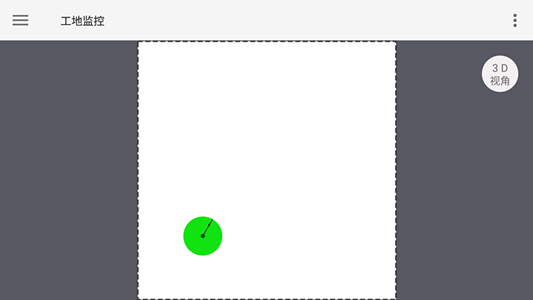
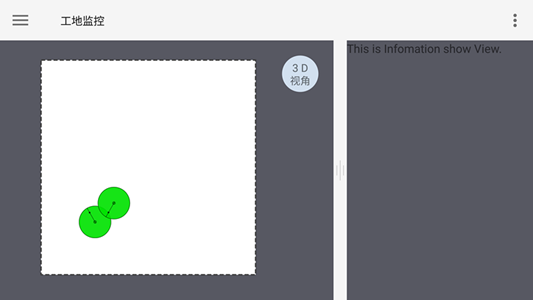
add Gesture 4 2d view

diff --git a/app/src/main/java/com/jxlc/tajiproject/ui/layout/ConstructionSiteLayout.java b/app/src/main/java/com/jxlc/tajiproject/ui/layout/ConstructionSiteLayout.java
@@ -10,9 +10,11 @@ import android.graphics.Color;
 import android.support.annotation.NonNull;
 import android.support.v4.content.ContextCompat;
 import android.util.AttributeSet;
+import android.view.GestureDetector;
 import android.view.Gravity;
 import android.view.LayoutInflater;
 import android.view.MotionEvent;
+import android.view.ScaleGestureDetector;
 import android.view.View;
 import android.view.animation.AccelerateDecelerateInterpolator;
 import android.widget.FrameLayout;
@@ -22,6 +24,8 @@ import android.widget.TextView;
 import com.jxlc.tajiproject.R;
 import com.jxlc.tajiproject.bean.EnvironmentInfo;
 import com.jxlc.tajiproject.bean.TowerCraneInfo;
+import com.jxlc.tajiproject.listener.ScrollTapGesture;
+import com.jxlc.tajiproject.listener.ScaleGesture;
 import com.jxlc.tajiproject.ui.widgets.CircularProgressDrawable;
 import com.jxlc.tajiproject.ui.widgets.TowerCrane2DView;
 import com.randal.aviana.LogUtils;
@@ -29,8 +33,6 @@ import com.unity3d.player.UnityPlayer;
 
 import java.util.ArrayList;
 import java.util.List;
-
-import static android.R.attr.mode;
 
 /**
  * Created by randal on 2017/5/4.
@@ -45,13 +47,14 @@ public class ConstructionSiteLayout extends FrameLayout {
     private CircularProgressDrawable mFloatBtnDrawable;
     private Animator mFloatBtnCurAnim;
 
+    private FrameLayout mContainer;
     private FrameLayout mSiteBorder;
-    private List<TowerCraneInfo> mTCInfoList;
-    private float scaleRate;
+    private GestureDetector mGestureDetector;
+    private ScaleGestureDetector mScaleGestureDetector;
 
+    private List<TowerCraneInfo> mTCInfoList;
+    private float scaleRateSite2Screen;
     private boolean firstLoadUnity = true;
-    int touchNum = 0;
-    float oldDist = 0.0f;
 
     public ConstructionSiteLayout(@NonNull Context context) {
         this(context, null);
@@ -72,7 +75,14 @@ public class ConstructionSiteLayout extends FrameLayout {
 
     private void initVariable() {
         mTCInfoList = new ArrayList<>();
-        mTCInfoList.add(TowerCraneInfo.getDemoInfo());
+        TowerCraneInfo info1 = TowerCraneInfo.getDemoInfo();
+        info1.setAngle(120);
+        mTCInfoList.add(info1);
+        TowerCraneInfo info2 = TowerCraneInfo.getDemoInfo();
+        info2.setCoordinateX(info2.getCoordinateX() + info2.getFrontArmLength() + 10);
+        info2.setCoordinateY(info2.getCoordinateY() + info2.getFrontArmLength() + 10);
+        info2.setAngle(240);
+        mTCInfoList.add(info2);
     }
 
     private void initViews() {
@@ -81,7 +91,7 @@ public class ConstructionSiteLayout extends FrameLayout {
                 .setRingWidth(getResources().getDimensionPixelSize(R.dimen.layout_float_button_ring_width))
                 .setOutlineColor(ContextCompat.getColor(mContext, android.R.color.transparent))
                 .setRingColor(ContextCompat.getColor(mContext, android.R.color.holo_green_light))
-                .setCenterColor(Color.parseColor("#EFFFFAFA"))
+                .setCenterColor(Color.parseColor("#E9DEEDFC"))
                 .create();
         mFloatBtn.setImageDrawable(mFloatBtnDrawable);
         mFloatBtn.setOnTouchListener(new OnTouchListener() {
@@ -110,54 +120,19 @@ public class ConstructionSiteLayout extends FrameLayout {
 
         mFloatBtnTextView = (TextView)findViewById(R.id.constructionsite_floatbtntext);
         mFloatBtnTextView.setText(getResources().getText(R.string.floatbtn_3d));
-
+        mContainer = (FrameLayout)findViewById(R.id.constructionsite_container);
         mSiteBorder = (FrameLayout)findViewById(R.id.constructionsite_border);
-        mSiteBorder.setOnTouchListener(new OnTouchListener() {
+        mContainer.setOnTouchListener(new OnTouchListener() {
             @Override
             public boolean onTouch(View view, MotionEvent event) {
-                switch (event.getAction() & MotionEvent.ACTION_MASK) {
-                    case MotionEvent.ACTION_DOWN:
-                        touchNum = 1;
-                        break;
-                    case MotionEvent.ACTION_UP:
-                        touchNum = 0;
-                        break;
-                    case MotionEvent.ACTION_POINTER_UP:
-                        touchNum = 1;
-                        break;
-                    case MotionEvent.ACTION_POINTER_DOWN:
-                        oldDist = spacing(event);
-                        touchNum += 1;
-                        break;
-
-                    case MotionEvent.ACTION_MOVE:
-                        if (mode >= 2) {
-                            float newDist = spacing(event);
-                            if (Math.abs(newDist - oldDist) > 30 && Math.abs(newDist - oldDist) < 40) {
-//                                FrameLayout.LayoutParams lp = (FrameLayout.LayoutParams)mSiteBorder.getLayoutParams();
-//                                LogUtils.d(" " + newDist + " " + oldDist + " " + lp.width + " " + lp.height);
-//                                lp.width = (int)(lp.width * scaleRate * (newDist / oldDist));
-//                                lp.height = (int)(lp.height * scaleRate * (newDist / oldDist));
-//                                mSiteBorder.setLayoutParams(lp);
-//                                oldDist = newDist;
-//                                LogUtils.d(" "+ touchNum + " " + oldDist + " " + lp.width + " " + lp.height);
-                                mSiteBorder.setScaleX(scaleRate * newDist / oldDist);
-                                mSiteBorder.setScaleY(scaleRate * newDist / oldDist);
-                                oldDist = newDist;
-
-                            }
-                        }
-                        break;
-                }
+                mGestureDetector.onTouchEvent(event);
+                mScaleGestureDetector.onTouchEvent(event);
                 return true;
             }
-
-            private float spacing(MotionEvent event) {
-                float x = event.getX(0) - event.getX(1);
-                float y = event.getY(0) - event.getY(1);
-                return (float) Math.sqrt(x * x + y * y);
-            }
         });
+
+        mGestureDetector = new GestureDetector(mContext, new ScrollTapGesture(mSiteBorder));
+        mScaleGestureDetector = new ScaleGestureDetector(mContext, new ScaleGesture(mSiteBorder));
         this.post(new Runnable() {
             @Override
             public void run() {
@@ -193,55 +168,70 @@ public class ConstructionSiteLayout extends FrameLayout {
     }
 
     private void switchView() {
-        FrameLayout container = (FrameLayout)findViewById(R.id.constructionsite_container);
-        if (container.getChildCount() == 3) {
-            FrameLayout.LayoutParams lp = new LayoutParams(container.getWidth(), container.getHeight());
-            container.addView(mUnityPlayer, lp);
+        if (mContainer.getChildCount() == 3) {
+            FrameLayout.LayoutParams lp = new LayoutParams(mContainer.getWidth(), mContainer.getHeight());
+            mContainer.addView(mUnityPlayer, lp);
             mFloatBtn.bringToFront();
             mFloatBtnTextView.bringToFront();
             if (!firstLoadUnity) {
                 mFloatBtnTextView.setText(getResources().getText(R.string.floatbtn_2d));
             }
         } else {
-            container.removeView(mUnityPlayer);
+            mContainer.removeView(mUnityPlayer);
             mFloatBtnTextView.setText(getResources().getText(R.string.floatbtn_3d));
         }
     }
 
     private void resizeSiteAndTowerCrane() {
-        FrameLayout container = (FrameLayout)findViewById(R.id.constructionsite_container);
-        int cWidth = container.getWidth();
-        int cHeight = container.getHeight();
+        int cWidth = mContainer.getWidth();
+        int cHeight = mContainer.getHeight();
         LogUtils.d("" + cWidth + " " + cHeight);
 
         float wRate = (float)cWidth / (float)EnvironmentInfo.getInstance().getConstructionSiteWidth();
         float hRate = (float)cHeight / (float)EnvironmentInfo.getInstance().getConstructionSiteHeight();
         LogUtils.d("" + wRate + " " + hRate);
-        scaleRate = (wRate < hRate) ? wRate : hRate;
+        scaleRateSite2Screen = (wRate < hRate) ? wRate : hRate;
 
-        FrameLayout.LayoutParams lp = new LayoutParams((int)(EnvironmentInfo.getInstance().getConstructionSiteWidth() * scaleRate),
-                (int)(EnvironmentInfo.getInstance().getConstructionSiteHeight() * scaleRate));
+        FrameLayout.LayoutParams lp = new LayoutParams((int)(EnvironmentInfo.getInstance().getConstructionSiteWidth() * scaleRateSite2Screen),
+                (int)(EnvironmentInfo.getInstance().getConstructionSiteHeight() * scaleRateSite2Screen));
         lp.gravity = Gravity.CENTER;
         mSiteBorder.setLayoutParams(lp);
 
         for (TowerCraneInfo info : mTCInfoList) {
             TowerCrane2DView tcView = new TowerCrane2DView(mContext);
             tcView.setTowerCraneInfo(info);
-            tcView.setScaleX(scaleRate);
-            tcView.setScaleY(scaleRate);
+            tcView.setScaleX(scaleRateSite2Screen);
+            tcView.setScaleY(scaleRateSite2Screen);
 
             FrameLayout.LayoutParams tclp = new LayoutParams(LayoutParams.WRAP_CONTENT, LayoutParams.WRAP_CONTENT);
-//            tclp.setMargins((int)((info.getCoordinateX() - info.getFrontArmLength()) * scaleRate) - (int)(info.getFrontArmLength() * (1-scaleRate)),
-//                    (int)((EnvironmentInfo.getInstance().getConstructionSiteHeight() - info.getCoordinateY() - info.getFrontArmLength()) * scaleRate)  - (int)(info.getFrontArmLength() * (1-scaleRate)),
+//            tclp.setMargins((int)((info.getCoordinateX() - info.getFrontArmLength()) * scaleRate_Site2Screen) - (int)(info.getFrontArmLength() * (1-scaleRate_Site2Screen)),
+//                    (int)((EnvironmentInfo.getInstance().getConstructionSiteHeight() - info.getCoordinateY() - info.getFrontArmLength()) * scaleRate_Site2Screen)  - (int)(info.getFrontArmLength() * (1-scaleRate_Site2Screen)),
 //                    0, 0);
-            tclp.setMargins((int)(info.getCoordinateX() * scaleRate - info.getFrontArmLength()),
-                    (int)((EnvironmentInfo.getInstance().getConstructionSiteHeight() - info.getCoordinateY()) * scaleRate  - info.getFrontArmLength()),
+            tclp.setMargins((int)(info.getCoordinateX() * scaleRateSite2Screen - info.getFrontArmLength()),
+                    (int)((EnvironmentInfo.getInstance().getConstructionSiteHeight() - info.getCoordinateY()) * scaleRateSite2Screen - info.getFrontArmLength()),
                     0, 0);
             mSiteBorder.addView(tcView, tclp);
         }
     }
 
+    class ScaleGestureListener implements ScaleGestureDetector.OnScaleGestureListener {
+        @Override
+        public boolean onScale(ScaleGestureDetector detector) {
+            LogUtils.d("access" + detector.getScaleFactor());
+            return false;
+        }
 
+        @Override
+        public boolean onScaleBegin(ScaleGestureDetector detector) {
+            LogUtils.d("access" + detector.getScaleFactor());
+            return true;
+        }
+
+        @Override
+        public void onScaleEnd(ScaleGestureDetector detector) {
+            LogUtils.d("access" + detector.getScaleFactor());
+        }
+    }
 }
 
 

diff --git a/app/src/main/java/com/jxlc/tajiproject/ui/widgets/TowerCrane2DView.java b/app/src/main/java/com/jxlc/tajiproject/ui/widgets/TowerCrane2DView.java
@@ -78,16 +78,16 @@ public class TowerCrane2DView extends View {
 
         mPaint.setStyle(Paint.Style.FILL);                        // 前臂圆
         if (isChecked) {
-            mPaint.setColor(Color.parseColor("#EF00FFFF"));
+            mPaint.setColor(Color.parseColor("#E900FFFF"));
         } else {
-            mPaint.setColor(Color.parseColor("#EF00E100"));
+            mPaint.setColor(Color.parseColor("#E900E100"));
         }
         canvas.drawCircle(this.getWidth() / 2, this.getHeight() / 2, radius, mPaint);
 
         if (isChecked) {
-            mPaint.setColor(Color.parseColor("#EF00DDDD"));       // 后臂圆
+            mPaint.setColor(Color.parseColor("#E900DDDD"));       // 后臂圆
         } else {
-            mPaint.setColor(Color.parseColor("#EF00B400"));
+            mPaint.setColor(Color.parseColor("#E900B400"));
         }
         canvas.drawCircle(this.getWidth() / 2, this.getHeight() / 2, mTowerCraneInfo.getRearArmLength(), mPaint);
 
@@ -96,9 +96,10 @@ public class TowerCrane2DView extends View {
                 hhalf - mTowerCraneInfo.getTrolleyDistance() * a, 3, mPaint);
 
         mPaint.setStyle(Paint.Style.STROKE);
-        mPaint.setStrokeWidth(2);
+        mPaint.setStrokeWidth(1);
         canvas.drawCircle(this.getWidth() / 2, this.getHeight() / 2, mTowerCraneInfo.getRearArmLength(), mPaint);
-
+        canvas.drawCircle(this.getWidth() / 2, this.getHeight() / 2, mTowerCraneInfo.getFrontArmLength() - 1, mPaint);
+        
         canvas.drawLine(whalf - mTowerCraneInfo.getRearArmLength() * b,         // 吊臂
                 hhalf + mTowerCraneInfo.getRearArmLength() * a,
                 whalf + mTowerCraneInfo.getFrontArmLength() * b,

diff --git a/app/src/main/java/com/jxlc/tajiproject/bean/TowerCraneInfo.java b/app/src/main/java/com/jxlc/tajiproject/bean/TowerCraneInfo.java
@@ -96,7 +96,9 @@ public class TowerCraneInfo {
 
     public void setCoordinateX(float coordinateX) {
         this.coordinateX = coordinateX;
-        mListener.onStableInfoChanged();
+        if (mListener != null) {
+            mListener.onStableInfoChanged();
+        }
     }
 
     public float getCoordinateY() {
@@ -105,7 +107,9 @@ public class TowerCraneInfo {
 
     public void setCoordinateY(float coordinateY) {
         this.coordinateY = coordinateY;
-        mListener.onStableInfoChanged();
+        if (mListener != null) {
+            mListener.onStableInfoChanged();
+        }
     }
 
     public float getFrontArmLength() {
@@ -114,7 +118,9 @@ public class TowerCraneInfo {
 
     public void setFrontArmLength(float frontArmLength) {
         this.frontArmLength = frontArmLength;
-        mListener.onStableInfoChanged();
+        if (mListener != null) {
+            mListener.onStableInfoChanged();
+        }
     }
 
     public float getRearArmLength() {
@@ -123,7 +129,9 @@ public class TowerCraneInfo {
 
     public void setRearArmLength(float rearArmLength) {
         this.rearArmLength = rearArmLength;
-        mListener.onStableInfoChanged();
+        if (mListener != null) {
+            mListener.onStableInfoChanged();
+        }
     }
 
     public float getTrolleyDistance() {

diff --git a/app/src/main/java/com/jxlc/tajiproject/listener/ScrollTapGesture.java b/app/src/main/java/com/jxlc/tajiproject/listener/ScrollTapGesture.java
@@ -1,0 +1,38 @@
+package com.jxlc.tajiproject.listener;
+
+import android.view.GestureDetector;
+import android.view.MotionEvent;
+import android.widget.FrameLayout;
+
+/**
+ * Created by randal on 2017/5/12.
+ */
+
+public class ScrollTapGesture extends GestureDetector.SimpleOnGestureListener {
+    private FrameLayout mLayout;
+    private float lastTranslationX = 0;
+    private float lastTranslationY = 0;
+
+    public ScrollTapGesture(FrameLayout layout) {
+        mLayout = layout;
+    }
+
+    @Override
+    public boolean onDoubleTap(MotionEvent e) {
+        mLayout.setScaleX(1);
+        mLayout.setScaleY(1);
+        mLayout.setTranslationX(0);
+        mLayout.setTranslationY(0);
+        return true;
+    }
+
+    @Override
+    public boolean onScroll(MotionEvent e1, MotionEvent e2, float distanceX, float distanceY) {
+        lastTranslationX = lastTranslationX - distanceX;
+        lastTranslationY = lastTranslationY - distanceY;
+        mLayout.setTranslationX(lastTranslationX);
+        mLayout.setTranslationY(lastTranslationY);
+
+        return super.onScroll(e1, e2, distanceX, distanceY);
+    }
+}

diff --git a/app/src/main/java/com/jxlc/tajiproject/listener/ScaleGesture.java b/app/src/main/java/com/jxlc/tajiproject/listener/ScaleGesture.java
@@ -1,0 +1,35 @@
+package com.jxlc.tajiproject.listener;
+
+import android.view.ScaleGestureDetector;
+import android.widget.FrameLayout;
+
+/**
+ * Created by randal on 2017/5/12.
+ */
+
+public class ScaleGesture extends ScaleGestureDetector.SimpleOnScaleGestureListener {
+    private FrameLayout mLayout;
+    private float lastScale = 1;
+
+    public ScaleGesture(FrameLayout layout) {
+        mLayout = layout;
+    }
+
+    @Override
+    public boolean onScale(ScaleGestureDetector detector) {
+        mLayout.setScaleX(lastScale * detector.getScaleFactor());
+        mLayout.setScaleY(lastScale * detector.getScaleFactor());
+        return super.onScale(detector);
+    }
+
+    @Override
+    public boolean onScaleBegin(ScaleGestureDetector detector) {
+        return super.onScaleBegin(detector);
+    }
+
+    @Override
+    public void onScaleEnd(ScaleGestureDetector detector) {
+        lastScale = lastScale * detector.getScaleFactor();
+        super.onScaleEnd(detector);
+    }
+}

diff --git a/app/src/main/java/com/jxlc/tajiproject/ui/layout/TowerCraneLayout.java b/app/src/main/java/com/jxlc/tajiproject/ui/layout/TowerCraneLayout.java
@@ -56,7 +56,7 @@ public class TowerCraneLayout extends FrameLayout {
                 .setRingWidth(getResources().getDimensionPixelSize(R.dimen.layout_float_button_ring_width))
                 .setOutlineColor(ContextCompat.getColor(context, android.R.color.transparent))
                 .setRingColor(ContextCompat.getColor(context, android.R.color.holo_green_light))
-                .setCenterColor(Color.parseColor("#EFFFFAFA"))
+                .setCenterColor(Color.parseColor("#E9DEEDFC"))
                 .create();
         mFloatBtn.setImageDrawable(mFloatBtnDrawable);
         mFloatBtn.setOnTouchListener(new OnTouchListener() {

diff --git a/app/src/main/utils/com/randal/aviana/widgets/Splitter.java b/app/src/main/utils/com/randal/aviana/widgets/Splitter.java
@@ -16,8 +16,8 @@ import com.randal.aviana.DensityUtils;
 
 public class Splitter extends View {
     Paint mPaint;
-    int backgourdColor = Color.parseColor("#EFFFFAFA");
-    int lineColor = Color.parseColor("#888888");
+    int backgourdColor = Color.parseColor("#F5F5F5");
+    int lineColor = Color.parseColor("#686868");
     int defaultWidth = 16;      // dp
     int defaultHeight = 16;     // dp
     int lineLength = 24;        // dp
